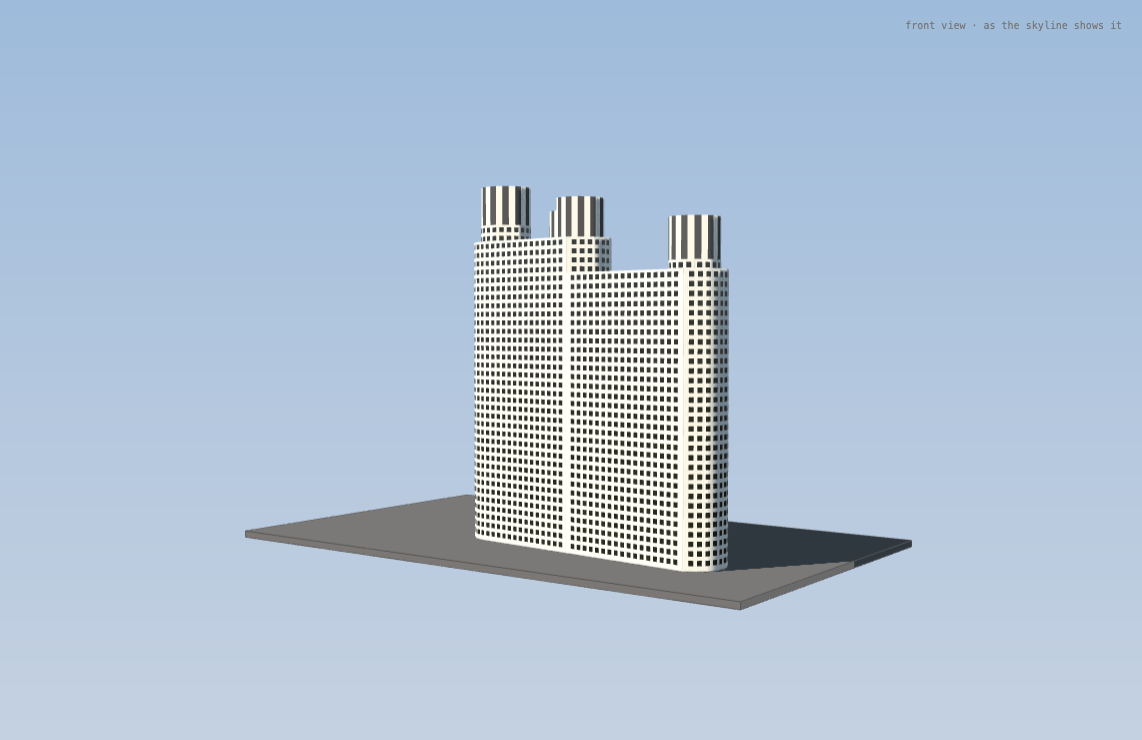
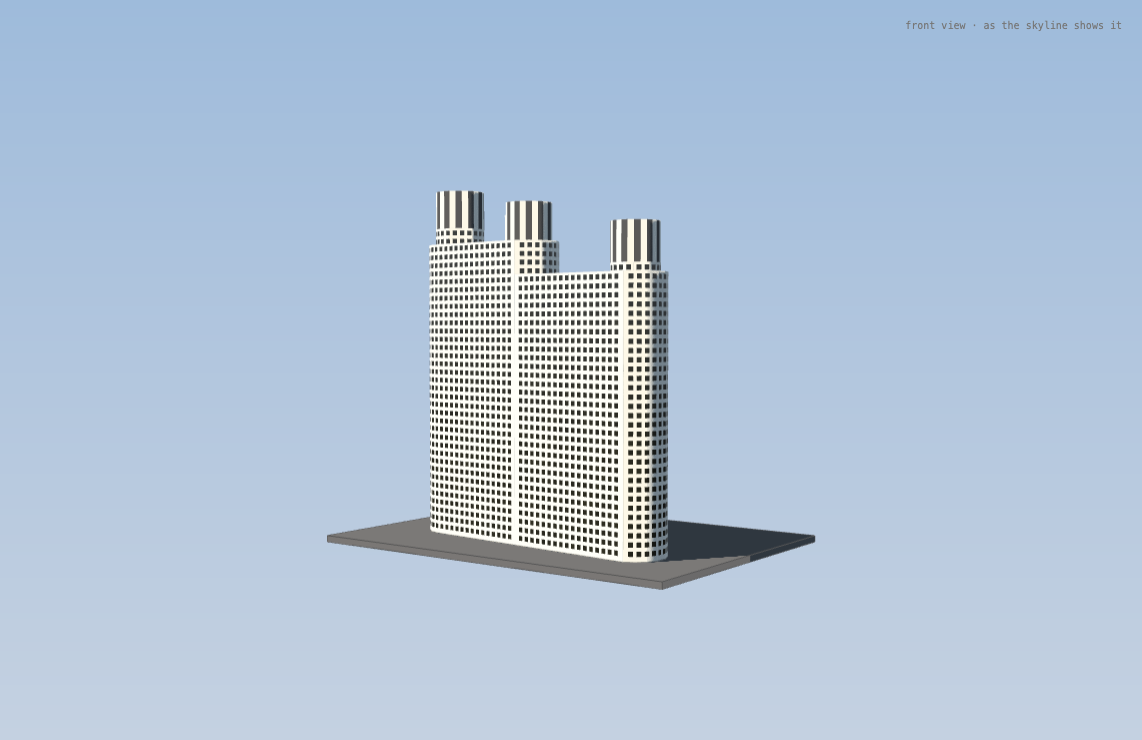
fix: shorten secondary Sheraton crowns from photo ratios

Changed region(s): [[0.2145, 0.2486, 0.7968, 0.8392]]

diff --git a/src/skyline-3d.html b/src/skyline-3d.html
@@ -16,7 +16,7 @@
         <span class="visually-hidden">Preparing the skyline…</span>
         <!-- skyline-loading:start -->
         <svg class="skyline-trace" viewBox="0 0 1000 379.13" aria-hidden="true" focusable="false">
-          <defs><path id="skyline-loading-outline" pathLength="1" d="M0 379.13 L24 379.13 L24 317.67 L36.32 311.43 L74.67 311.43 L77.22 312.72 L77.46 311.68 L85.82 311.68 L86.06 307.48 L130.22 307.99 L130.45 308.97 L130.91 308.97 L131.15 307.99 L160.43 307.99 L160.9 312.71 L176.7 312.71 L176.93 319.92 L184.6 319.92 L185.53 321.04 L202.27 321.04 L202.5 319.71 L203.2 319.28 L203.66 322.05 L206.68 328.57 L206.92 325.5 L208.31 325.5 L208.54 334.72 L210.63 334.72 L210.87 338.85 L228.3 338.85 L228.53 310.05 L232.25 310.05 L232.48 300.18 L236.2 300.18 L236.43 273.16 L238.29 273.16 L238.53 265.43 L239.46 265.43 L239.69 264.58 L242.94 264.58 L243.17 265.69 L245.03 265.69 L245.27 264.58 L247.13 264.58 L247.36 265.69 L248.52 265.43 L248.75 264.58 L250.84 264.58 L251.08 265.43 L251.77 265.43 L252.24 273.16 L253.87 273.16 L254.1 310.05 L254.56 307.48 L256.65 307.48 L256.89 310.05 L258.05 310.05 L258.28 307.48 L260.84 307.48 L261.07 324.55 L265.25 324.55 L265.49 312.2 L267.11 312.2 L267.35 305.33 L281.29 305.33 L281.52 308.77 L292.45 308.77 L292.68 302.35 L303.14 302.32 L303.37 223.64 L314.29 223.64 L314.53 216.27 L321.96 216.27 L322.2 214.04 L339.86 214.22 L340.09 223.64 L342.88 223.64 L343.12 242.7 L371.7 242.7 L371.94 372.43 L376.35 372.43 L376.58 255.25 L395.41 227.09 L396.11 226.91 L398.9 245.87 L399.36 245.89 L399.59 226.91 L400.06 226.91 L427.02 256.11 L427.25 305.08 L432.13 305.08 L432.37 197.36 L499.54 197.36 L499.77 221.93 L513.71 221.93 L513.95 75.03 L533.24 75.03 L533.47 66.02 L545.79 66.02 L546.72 16 L547.88 16 L548.81 66.02 L555.78 66.02 L556.01 81.13 L556.94 81.13 L557.18 149.08 L563.45 140.02 L563.92 125.57 L564.38 124.48 L564.61 118.88 L565.78 140.14 L579.02 159.17 L581.81 168.47 L582.04 171.95 L583.67 171.95 L583.9 175.35 L585.3 175.35 L585.53 178.75 L586.93 178.75 L587.16 182.14 L588.55 182.14 L588.79 327.64 L589.25 369.24 L591.81 369.24 L592.04 87.39 L605.29 87.39 L605.52 81.98 L623.65 81.98 L623.88 68.08 L624.81 68.08 L625.04 81.98 L643.17 81.98 L643.4 87.39 L656.42 87.39 L656.65 197.22 L656.88 184.61 L727.31 184.61 L727.77 197.22 L734.28 197.22 L734.51 203.31 L777.98 203.31 L778.44 211.51 L778.67 287.57 L783.55 287.57 L783.79 277.02 L795.41 277.02 L795.64 274.53 L813.77 274.53 L814 277.02 L824.23 277.02 L824.46 283.38 L824.93 283.38 L825.16 287.57 L830.74 287.57 L830.97 259.6 L868.85 259.6 L869.09 379.13 L910.69 379.13 L910.92 297.82 L912.78 297.82 L913.48 282.77 L926.26 282.77 L926.96 297.82 L931.14 297.82 L931.84 287.35 L946.02 287.35 L946.71 297.82 L948.34 297.82 L948.57 306.98 L961.13 306.98 L961.82 294.22 L973.68 294.22 L974.37 306.98 L976 306.98 L976 379.13 L1000 379.13" /></defs>
+          <defs><path id="skyline-loading-outline" pathLength="1" d="M0 379.13 L24 379.13 L24 317.67 L36.32 311.43 L74.67 311.43 L77.22 312.72 L77.46 311.68 L85.82 311.68 L86.06 307.48 L130.22 307.99 L130.45 308.97 L130.91 308.97 L131.15 307.99 L160.43 307.99 L160.9 312.71 L176.7 312.71 L176.93 319.92 L184.6 319.92 L185.53 321.04 L202.27 321.04 L202.5 319.71 L203.2 319.28 L203.66 322.05 L206.68 328.57 L206.92 325.5 L208.31 325.5 L208.54 334.72 L210.63 334.72 L210.87 338.85 L228.3 338.85 L228.53 310.05 L232.25 310.05 L232.48 300.18 L236.2 300.18 L236.43 273.16 L238.29 273.16 L238.53 265.43 L239.46 265.43 L239.69 264.58 L242.94 264.58 L243.17 265.69 L245.03 265.69 L245.27 264.58 L247.13 264.58 L247.36 265.69 L248.52 265.43 L248.75 264.58 L250.84 264.58 L251.08 265.43 L251.77 265.43 L252.24 273.16 L253.87 273.16 L254.1 310.05 L254.56 307.48 L256.65 307.48 L256.89 310.05 L258.05 310.05 L258.28 307.48 L260.84 307.48 L261.07 324.55 L265.25 324.55 L265.49 312.2 L267.11 312.2 L267.35 305.33 L281.29 305.33 L281.52 308.77 L292.45 308.77 L292.68 302.35 L303.14 302.32 L303.37 223.64 L314.29 223.64 L314.53 216.27 L321.96 216.27 L322.2 214.04 L339.86 214.22 L340.09 223.64 L342.88 223.64 L343.12 242.7 L371.7 242.7 L371.94 372.43 L376.35 372.43 L376.58 255.25 L395.41 227.09 L396.11 226.91 L398.9 245.87 L399.36 245.89 L399.59 226.91 L400.06 226.91 L427.02 256.11 L427.25 305.08 L432.13 305.08 L432.37 197.36 L499.54 197.36 L499.77 221.93 L513.71 221.93 L513.95 75.03 L533.24 75.03 L533.47 66.02 L545.79 66.02 L546.72 16 L547.88 16 L548.81 66.02 L555.78 66.02 L556.01 81.13 L556.94 81.13 L557.18 149.08 L563.45 140.02 L563.92 125.57 L564.38 124.48 L564.61 118.88 L565.78 140.14 L579.02 159.17 L581.81 168.47 L582.04 171.95 L583.67 171.95 L583.9 175.35 L585.3 175.35 L585.53 178.75 L586.93 178.75 L587.16 182.14 L588.55 182.14 L588.79 327.64 L589.25 369.24 L591.81 369.24 L592.04 87.39 L605.29 87.39 L605.52 81.98 L623.65 81.98 L623.88 68.08 L624.81 68.08 L625.04 81.98 L643.17 81.98 L643.4 87.39 L656.42 87.39 L656.65 197.22 L656.88 184.61 L727.31 184.61 L727.77 197.22 L734.28 197.22 L734.51 203.31 L777.98 203.31 L778.44 211.51 L778.67 287.57 L783.55 287.57 L783.79 277.02 L795.41 277.02 L795.64 274.53 L813.77 274.53 L814 277.02 L824.23 277.02 L824.46 283.38 L824.93 283.38 L825.16 287.57 L830.74 287.57 L830.97 259.6 L868.85 259.6 L869.09 379.13 L910.69 379.13 L910.92 297.82 L912.78 297.82 L913.48 282.77 L926.26 282.77 L926.96 297.82 L931.14 297.82 L931.84 291.64 L946.02 291.64 L946.71 297.82 L948.34 297.82 L948.57 306.98 L961.13 306.98 L961.82 299.54 L973.68 299.54 L974.37 306.98 L976 306.98 L976 379.13 L1000 379.13" /></defs>
           <use class="skyline-trace-rail" href="#skyline-loading-outline" />
           <use class="skyline-trace-line" href="#skyline-loading-outline" />
           <use class="skyline-trace-tip" href="#skyline-loading-outline" />

diff --git a/src/models/sheraton-grand-geographic.ts b/src/models/sheraton-grand-geographic.ts
@@ -33,11 +33,13 @@ const h = sheratonLevels;
 // the corner, part 1269924307, and the east and north arms' ends, parts 1269924306 and
 // 1269924308, plus the east wing's end, 1269924304 (within 1.7 cm).
 // Centres are east and north metres from Crain's centre; map precision is not survey accuracy.
+// Only the main 12.2 m crown has a published height difference. Smaller crowns
+// use photo ratios (7.2/6 m, about ±1.5 m), not copies of the main assembly.
 export const sheratonDrums = Object.freeze([
-  { centre: [407.44, 465.95] as Vec2, radius: 7.97, base: h.corner },
-  { centre: [439.52, 462.06] as Vec2, radius: 7.37, base: h.arms },
-  { centre: [409.75, 498.32] as Vec2, radius: 7.39, base: h.arms },
-  { centre: [482.703, 457.389] as Vec2, radius: 7.391, base: h.wingEnd },
+  { centre: [407.44, 465.95] as Vec2, radius: 7.97, base: h.corner, height: h.drum, screen: h.screen },
+  { centre: [439.52, 462.06] as Vec2, radius: 7.37, base: h.arms, height: 7.2, screen: 4.5 },
+  { centre: [409.75, 498.32] as Vec2, radius: 7.39, base: h.arms, height: 7.2, screen: 4.5 },
+  { centre: [482.703, 457.389] as Vec2, radius: 7.391, base: h.wingEnd, height: 6, screen: 4 },
 ]);
 
 // The skins' colours: the window tones, the precast, and the drums' cream and maroon fins,
@@ -102,24 +104,26 @@ export function createSheratonGrandGeographicBuilding(record: GeoBuilding, proje
   // uprights are visible; the old equal-width vertical stripes were not fins.
   // Ratios are photographic estimates, not construction dimensions. Preserve
   // the mapped centres and published total height; see FID-SHER-002's audit.
-  for (const { centre, radius, base } of sheratonDrums) {
-    const screenBase = base + h.drum - h.screen;
+  for (const { centre, radius, base, height, screen } of sheratonDrums) {
+    const baseHeight = height - screen;
+    const screenBase = base + baseHeight;
     const screenRadius = radius - 0.6;
     const ring = (r: number, lo: number, hi: number, paint: THREE.Color) =>
       solid(drums, circle(centre, r, 48), lo, hi, () => paint, paint);
     // Recessed opaque cores keep geometry closed. True see-through screens
     // remain unresolved; the recess and projecting slats supply visible relief.
     ring(radius - 0.7, base + 0.25, screenBase, fin);
-    ring(screenRadius - 0.12, screenBase, base + h.drum, fin);
+    ring(screenRadius - 0.12, screenBase, base + height, fin);
     ring(radius, base, base + 0.5, drumFace);
-    ring(radius - 0.25, base + 3.3, base + 3.5, drumFace);
-    for (let row = 1; row < 8; row += 1) {
-      const y = base + 0.6 + row * 0.75;
-      ring(radius - 0.55, y, y + 0.10, drumFace);
+    ring(radius - 0.25, base + baseHeight / 2 - 0.1, base + baseHeight / 2 + 0.1, drumFace);
+    const baseBands = baseHeight > 5 ? 7 : 2;
+    for (let row = 1; row <= baseBands; row += 1) {
+      const y = base + 0.6 + row * (baseHeight - 1.4) / baseBands;
+      if (Math.abs(y - base - baseHeight / 2) > 0.25) ring(radius - 0.55, y, y + 0.10, drumFace);
     }
     for (let row = 0; row < 20; row += 1) {
-      const y = screenBase + row * h.screen / 20;
-      ring(screenRadius, y + 0.04, y + 0.13, fin);
+      const y = screenBase + row * screen / 20;
+      ring(screenRadius, y + 0.03, y + 0.10, fin);
     }
     const post = (angle: number, width: number, inner: number, outer: number, lo: number, hi: number) => {
       const c = Math.cos(angle), s = Math.sin(angle);
@@ -130,10 +134,10 @@ export function createSheratonGrandGeographicBuilding(record: GeoBuilding, proje
     };
     for (let k = 0; k < 24; k += 1) {
       const angle = k / 24 * Math.PI * 2;
-      post(angle, k % 2 ? 0.14 : 0.42, screenRadius - 0.10, screenRadius + 0.10, screenBase, base + h.drum);
+      post(angle, k % 2 ? 0.14 : 0.42, screenRadius - 0.10, screenRadius + 0.10, screenBase, base + height);
       if (k % 2 === 0) {
-        post(angle, 0.65, radius - 0.75, radius + 0.12, base + 0.5, base + 3.48);
-        post(angle, 0.48, radius - 0.75, radius - 0.20, base + 3.48, screenBase + 0.2);
+        post(angle, 0.65, radius - 0.75, radius + 0.12, base + 0.5, base + baseHeight / 2 + 0.08);
+        post(angle, 0.48, radius - 0.75, radius - 0.20, base + baseHeight / 2 + 0.08, screenBase + 0.2);
       }
     }
   }

diff --git a/tests/skyline-geography.test.ts b/tests/skyline-geography.test.ts
@@ -2585,19 +2585,19 @@ describe("mapped skyline geography", () => {
         return ray.intersectObjects(meshes, false)[0];
       };
       // On the Skyscraper Center's datum: the top floor at 97 m, the corner's roof 3.1 m over
-      // it, the arms two floors of 2.67 m lower, and 12.2 m drums, the corner's to 112.3 m.
+      // it, the arms two floors of 2.67 m lower, and the main 12.2 m crown to 112.3 m; smaller crowns use photo ratios.
       const [corner, arms] = [100.1, 100.1 - 2 * 2.67];
       expect(record.parts.map((part) => [part.way, part.bottom, part.top])).toEqual([[592122464, 0, 94.76], [1269924307, 94.76, 100.1], [1269924305, 0, 84.08], [1269924304, 84.08, 86.75]]);
       const down = (x: number, z: number) => hit([x, 300, z], [0, -1, 0])!.point.y;
       near(down(407.44, -465.95), corner + 12.2, 1e-3);
-      near(down(439.52, -462.06), arms + 12.2, 1e-3);
-      near(down(409.75, -498.32), arms + 12.2, 1e-3);
+      near(down(439.52, -462.06), 101.96, 1e-3);
+      near(down(409.75, -498.32), 101.96, 1e-3);
       near(down(425, -462), arms, 1e-3);
       // JeremyA's pre-2013 fountain photograph shows the lower eastern slab
       // and its fourth round crown. Map levels give the relative roof steps;
       // these are estimates on the existing datum, not surveyed heights.
       near(down(461, -458), 84.08, 1e-3);
-      near(down(482.703, -457.389), 98.95, 1e-3);
+      near(down(482.703, -457.389), 92.75, 1e-3);
       expect(hit([482.7, 50, -420], [0, 0, -1])!.object.parent).toBe(model.building);
       expect(model.building.userData["buildingId"]).toBe(record.id);
       // The corner's round tower over the arms, sampled from the south-west.
@@ -2616,28 +2616,28 @@ describe("mapped skyline geography", () => {
         [439.52 + 12 * Math.cos(angle), y, -462.06 + 12 * Math.sin(angle)],
         [-Math.cos(angle), 0, -Math.sin(angle)],
       )!;
-      const pale = Array.from({ length: 720 }, (_, k) => is(palette.drum)(tone(crownHit(k / 720 * Math.PI * 2, arms + 10), "Sheraton Grand · drums")));
+      const pale = Array.from({ length: 720 }, (_, k) => is(palette.drum)(tone(crownHit(k / 720 * Math.PI * 2, arms + 5), "Sheraton Grand · drums")));
       expect(pale.filter((value, k) => value && !pale[(k + pale.length - 1) % pale.length]).length).toBe(24);
       const paleShare = pale.filter(Boolean).length / pale.length;
       expect(paleShare).toBeGreaterThan(0.1);
       expect(paleShare).toBeLessThan(0.25);
       // Between uprights, the photographed upper screen occupies about
-      // 44% of the 12.2 m assembly and has about twenty horizontal slats.
+      // 60% of this smaller assembly and has about twenty horizontal slats.
       // Probe actual relief, so a painted stripe cannot satisfy this check.
       const reach = (y: number) => {
         const p = crownHit(Math.PI / 24, y).point;
         return Math.hypot(p.x - 439.52, p.z + 462.06);
       };
       let slats = 0, onSlat = false;
-      for (let y = 101.57; y < 106.95; y += 0.02) {
+      for (let y = 97.47; y < 101.95; y += 0.02) {
         const now = reach(y) > 6.72;
         if (now && !onSlat) slats += 1;
         onSlat = now;
       }
       expect(slats).toBe(20);
       // The stepped lower frame projects beyond the recessed upper screen.
-      expect(reach(arms + 0.25) - reach(arms + 10)).toBeGreaterThan(0.45);
-      expect(reach(arms + 3.4) - reach(arms + 10)).toBeGreaterThan(0.2);
+      expect(reach(arms + 0.25) - reach(arms + 5)).toBeGreaterThan(0.45);
+      expect(reach(arms + 1.4) - reach(arms + 5)).toBeGreaterThan(0.2);
       // The east arm's south face: a window 1.5 m tall 80 cm over each floor line, counted
       // down from the top floor at 97 m, 35 of them under the arms' roof.
       const south = (x: number, y: number) => tone(hit([x, y, -420], [0, 0, -1]), "Sheraton Grand · precast and windows");

diff --git a/docs/sheraton-grand-reference.md b/docs/sheraton-grand-reference.md
@@ -59,7 +59,9 @@ so the model stands on its datum and takes Emporis's differences.
 | Arms' roof | 94.76 m | Two floors lower, the mapped arms' 32 levels to the corner's 34 |
 | East wing roof (estimated, 2026-10-17) | 84.08 m | 28 mapped levels relative to the corner |
 | East wing round end (estimated, 2026-10-17) | 86.75 m | 29 mapped levels relative to the corner |
-| Drums | 12.2 m | Emporis: 40.06 ft from the main roof to the architectural top |
+| Main crown assembly | 12.2 m | Emporis: 40.06 ft from the main roof to the architectural top |
+| Arm crown assemblies (estimated, 2026-10-17) | 7.2 m | Photographic ratio, about ±1.5 m |
+| East wing crown assembly (estimated, 2026-10-17) | 6 m | Photographic ratio, about ±1.5 m |
 | Corner drum's top | 112.3 m | The Skyscraper Center |
 | Tip | 112.8 m, not modelled | The Skyscraper Center |
 
@@ -122,8 +124,8 @@ Omitted:
 - `tests/building-kit.test.ts` checks counted triangles, winding, same-facing coplanar
   overlaps, and covered omissions.
 - `tests/skyline-geography.test.ts` raycasts:
-  - the corner drum's top at 112.3 m, the arms' drums' at 106.96 m and the arms' roof at
-    94.76 m, plus the restored wing roof at 84.08 m and fourth crown at 98.95 m;
+  - the corner drum's top at 112.3 m, the arms' crowns at approximately 101.96 m and the arms' roof at
+    94.76 m, plus the restored wing roof at 84.08 m and fourth crown at approximately 92.75 m;
   - narrow pale uprights, horizontal louver relief and stepped crown profiles;
   - the corner's two floors over the arms' roof, a window on each with its sill and head,
     and its own roof at 100.1 m under the drum;
@@ -339,7 +341,8 @@ pass corrects the missing wing's mass, not every Sheraton detail.
 
 This second pass assessed only Sheraton Grand. It corrects the crown's visible
 structure in the pre-2013 era, retaining the preceding pass's mapped centres,
-roof datums and total architectural height. It does not establish surveyed
+roof datums and the main architectural height. It shortens the three smaller
+crowns using photographic ratios. It does not establish surveyed
 crown dimensions or resolve the missing podium.
 
 ### Fresh photographic evidence
@@ -369,6 +372,16 @@ on 2026-10-17. The descriptions and EXIF agree on dates:
   This corroborates the screen family, not identical base construction on all
   four crowns.
 
+Further leads checked on the same date did not supply crown dimensions:
+[Chicago City Council proceedings, 2015-01-21, PDF page 90 / printed page 102170](https://chicityclerk.s3.amazonaws.com/s3fs-public/document_uploads/journals-proceedings/2015/2015_01_21_VII.pdf)
+contains SCB's 2012-05-24 west elevation for the neighbouring North Park Drive
+development, with only a small Sheraton podium outline at the edge. Its height
+labels describe the neighbouring project, not the Sheraton. C. William Brubaker's
+[1994 river view, UIC Library, file bru005_14_bF](https://www.flickr.com/photos/uicdigital/5937353172)
+shows the hotel from 330 North Wabash, but the available 1024 × 698 rendition
+([exact image](https://live.staticflickr.com/6125/5937353172_4c8612e5a3_b.jpg))
+does not resolve crown sections. Neither input was used to set a dimension.
+
 ### Measurements, interpretation and model decisions
 
 Coordinates are visual readings of the original pixels, not a rectified survey.
@@ -376,9 +389,32 @@ In Griffin's near-central bay, x ≈ 1050–1115, the screen top is y ≈ 40,
 its lower edge y ≈ 165 and the top guestroom glazing y ≈ 330 (±5–10 px).
 The upper screen is therefore about 43% of the visible assembly, with at least
 ±7 percentage points allowed for perspective and ambiguous trim boundaries.
-The model uses 5.4 m of the existing 12.2 m assembly (44%) for that screen and
-6.8 m for the base. The split is **inferred**, about ±0.9 m, and must not be
+The main corner uses 5.4 m of its existing 12.2 m assembly (44%) for the
+screen and 6.8 m for the base. The split is **inferred**, about ±0.9 m, and must not be
 read as a new source for the building's absolute height.
+
+The same image shows the northern arm's smaller crown at approximately
+x = 150–440, y = 245–390. Compare the assembly's height to its screen diameter
+to reduce the effect of different distances: the main screen is about 378 px
+wide with an assembly about 290 px high; the north screen is about 273 px wide
+with an assembly about 135 px high (±10–15 px at the trim boundaries).
+Using the mapped radius ratio 7.39/7.97 gives
+`12.2 × (135/290) × (378/273) × (7.39/7.97) ≈ 7.3 m`.
+Similar radial setbacks and vertical foreshortening are assumptions, so use
+**7.2 ± 1.5 m**, with about 4.5 m of upper screen. The east arm takes the same
+family by inference; the dusk fountain photograph corroborates a small crown,
+but does not independently fix its dimensions.
+
+The nearest eastern end in JeremyA's fountain original (identified above,
+x ≈ 295–415, y ≈ 105–160) also has a short screen and low base. Its roughly
+120 px screen width and 45–55 px assembly height, against the 14.8 m mapped
+round-end diameter, suggest roughly 5.5–6.8 m before allowance for setbacks
+and perspective. Kaufmann's rightmost crown (x ≈ 350–430, y ≈ 220–255)
+corroborates a low base under a dark screen. The wing now uses **6 ± 1.5 m**,
+of which 4 m is screen. These estimates supersede the first wing pass's
+provisional copy of the principal 12.2 m assembly. Arm crown tops become
+101.96 m and the wing crown 92.75 m; their decimals are arithmetic, not survey
+precision. The published principal top remains 112.3 m.
 
 About twenty horizontal slat edges are visible in that central screen bay
 (±2; dark edges and small top/bottom trims can merge). Approximately twelve
@@ -391,8 +427,8 @@ The implementation gives each crown twenty projecting horizontal slats,
 24 narrow uprights and a two-step lower frame. Setbacks (0.25–0.7 m), slat
 projection (0.12 m), lower-frame band count and widths are **schematic** relief:
 the photos establish direction and hierarchy but do not justify centimetre
-precision. Applying the principal crown's base family to all four is also an
-explicit approximation; FID-SHER-004 retains that distinction for better
+precision. The shorter secondary bases use only sparse lower framing. Applying the
+principal crown's stepped-frame family to all four is still an explicit approximation; FID-SHER-004 retains that distinction for better
 side elevations and drawings. Closed recessed cores approximate the dark
 screen interiors; genuine see-through louver construction remains unresolved.
 
@@ -406,8 +442,9 @@ the shaded orange/brown pixels in Griffin's photograph as a sunny-day palette.
 
 Raycasts now independently require 24 narrow pale interruptions around a screen,
 10–25% pale coverage, twenty distinct projecting horizontal slats and lower
-frames wider than the upper screen. The existing four crown heights, mapped
-footprints, wing roof steps and glass/opaque checks remain. Watertightness,
+frames wider than the upper screen. The principal crown height, mapped footprints, wing roof steps and glass/opaque
+checks remain; the three secondary top-height checks now use these independent
+photographic estimates. Watertightness,
 winding and same-facing coplanar checks passed after separating internal caps
 from overlapping faces; the strict type check and Sheraton raycast test passed.
 
@@ -430,7 +467,7 @@ before/after in both modes; the preceding pass's
 [day](fidelity/sheraton-wing-skyline-day-after.png) images also match this pass.
 The front and side comparisons visibly replace broad stripes with dark,
 horizontally divided screens and stepped lower framing. The elevated view
-preserves placement and the four crown elevations; fine slats are only
+preserves placement and shows the three shorter secondary crowns; fine slats are only
 legible in the close views. All four views restored their initial grey PNG
 byte for byte after colour toggling in the completed capture run. An earlier
 front capture failed that exact-restoration comparison; an unchanged rerun

diff --git a/docs/building-fidelity.md b/docs/building-fidelity.md
@@ -77,8 +77,8 @@ stronger evidence and bounded implementation.
 | FID-KEM-009 | Kemper / `building-kemper` | Verify full-height corner-pier width and crown frame depth from dated close views or dimensions. | Low | open | 2026-10-11 | The current end piers are centred on facade ends with relief clearance; their marble backing closes the corner. Exact corner width/depth is not established by FID-KEM-002/006/008. |
 | FID-SWI-001 | Swissôtel / `building-swissotel` | 45 modeled facade rows versus the audit's published 43 floors and approximate photo count of 46 rows. | Medium | open | 2026-10-04 | [Conflicting counts](swissotel-reference.md#heights). Seek elevations or dated close photographs; separate occupied floors, mechanical rows, and the Upper Wacker datum before changing pitch. |
 | FID-MPP-001 | Millennium Park Plaza / `building-michigan-plaza-front-tall` | Long faces use a generic 3 m window grid beyond what the panorama shows. | Medium | open | 2026-10-04 | [Current model limits](millennium-park-plaza-reference.md#model). Locate dated east/west elevations or photographs, count bays and distinguish the seven office floors from apartments. |
-| FID-SHER-001 | Sheraton Grand / `building-buckingham-east` | Restore the omitted 28-level east wing and its 29-level round end, confirmed in pre-2013 photographs. | Medium | implemented | 2026-10-17 | [Evidence, height-datum correction and both-mode comparisons](sheraton-grand-reference.md#2026-10-17--restore-the-east-wing-fid-sher-001). Mapped parts restored; precise roof/crown dimensions remain estimated under FID-SHER-002. |
-| FID-SHER-002 | Sheraton Grand / `building-buckingham-east` | Replace broad vertical crown stripes with stepped frames, narrow uprights and horizontal louver relief. | Medium | implemented | 2026-10-17 | [2007/2008 photographs, estimated proportions and both-mode comparisons](sheraton-grand-reference.md#2026-10-17--stepped-crowns-and-louvered-screens-fid-sher-002). Visible structure corrected; exact sections and crown differences remain FID-SHER-004. |
+| FID-SHER-001 | Sheraton Grand / `building-buckingham-east` | Restore the omitted 28-level east wing and its 29-level round end, confirmed in pre-2013 photographs. | Medium | implemented | 2026-10-17 | [Evidence, height-datum correction and both-mode comparisons](sheraton-grand-reference.md#2026-10-17--restore-the-east-wing-fid-sher-001). Mapped parts restored; precise roof/crown dimensions remain estimated under FID-SHER-004. |
+| FID-SHER-002 | Sheraton Grand / `building-buckingham-east` | Replace broad vertical crown stripes with stepped frames, narrow uprights and horizontal louver relief; shorten secondary crowns to photographic ratios. | Medium | implemented | 2026-10-17 | [2007/2008 photographs, estimated proportions and both-mode comparisons](sheraton-grand-reference.md#2026-10-17--stepped-crowns-and-louvered-screens-fid-sher-002). Visible structure corrected; exact sections and crown differences remain FID-SHER-004. |
 | FID-SHER-003 | Sheraton Grand / `building-buckingham-east` | Repeated guestroom rows reach grade; the podium, multi-storey facade bands and bay counts remain simplified. | Medium | open | 2026-10-17 | [Next facade pass](sheraton-grand-reference.md#2026-10-17--restore-the-east-wing-fid-sher-001). Count guestroom rows independently of tagged floor totals; check the podium datum and dated close views before adding relief. |
 | FID-SHER-004 | Sheraton Grand / `building-buckingham-east` | Crown sections, distinct stepped bases on all four ends, see-through louvers, wing crown height and sunny maroon calibration remain approximate or unknown. | Medium | open | 2026-10-17 | [Measured ratios and explicit approximations](sheraton-grand-reference.md#2026-10-17--stepped-crowns-and-louvered-screens-fid-sher-002). Seek dated side elevations and dimensions; calibrate colour independently before replacing the neutral screen fallback. |
 | FID-BCBS-001 | Blue Cross / `building-blue-cross-blue-shield` | North lobby projection lacks facade detail. | Low | open | 2026-10-11 | [2026-10-11 evidence](blue-cross-reference.md#2026-10-11--south-facade-and-materials-fid-bcbs-002003). The architect documents the north atrium, but lobby elevations/dimensions remain missing. |
